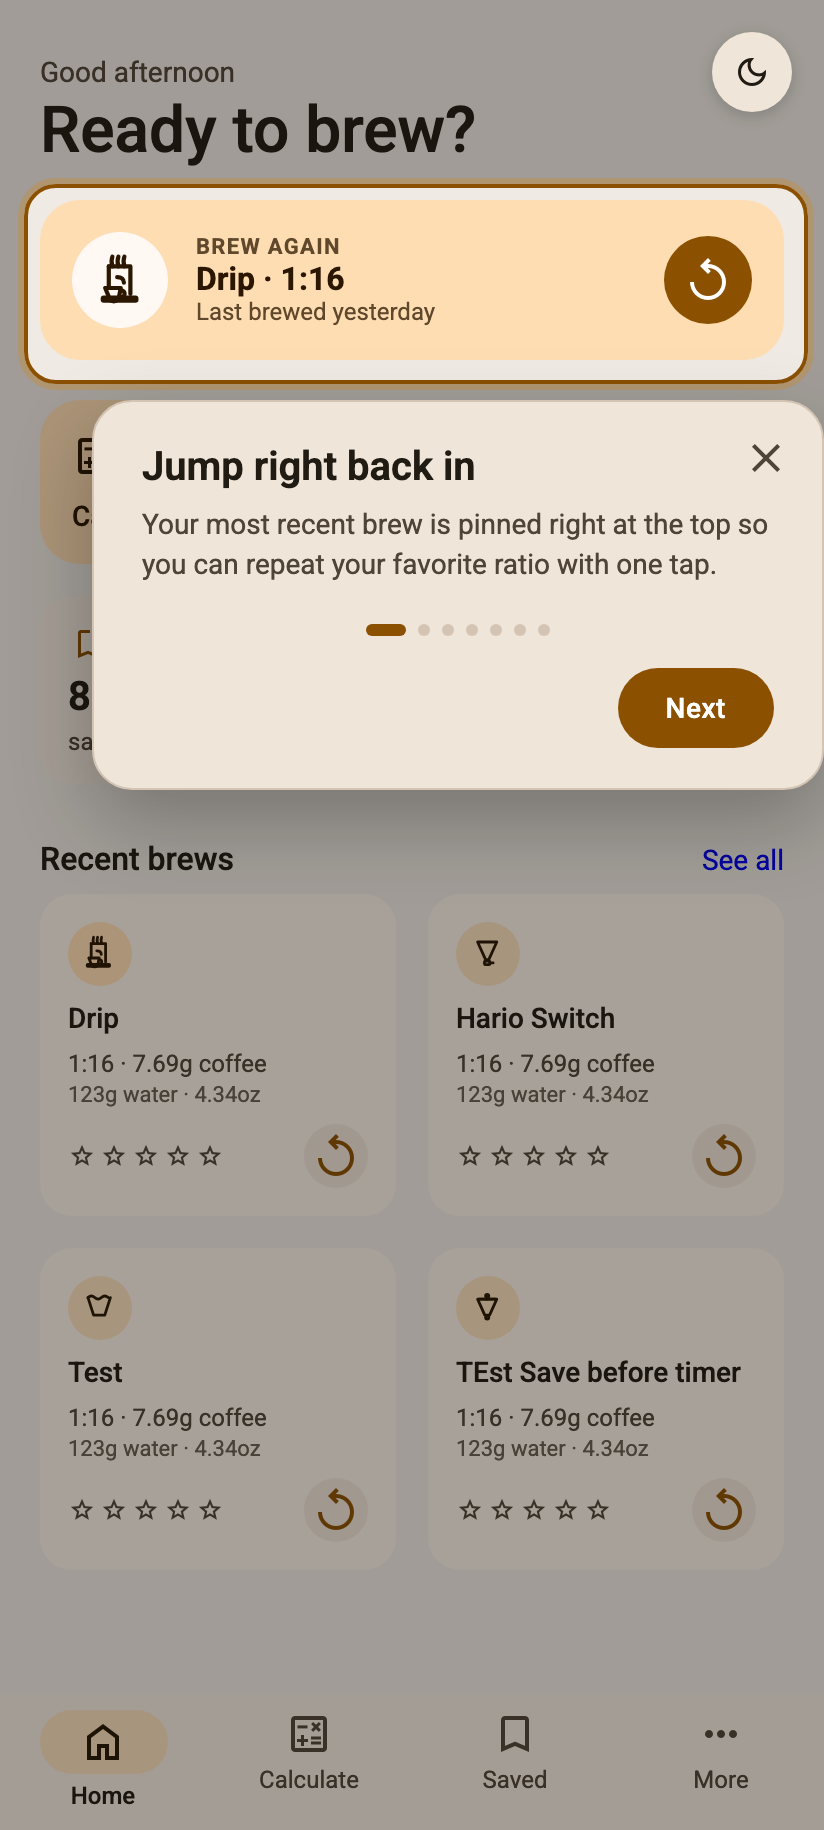
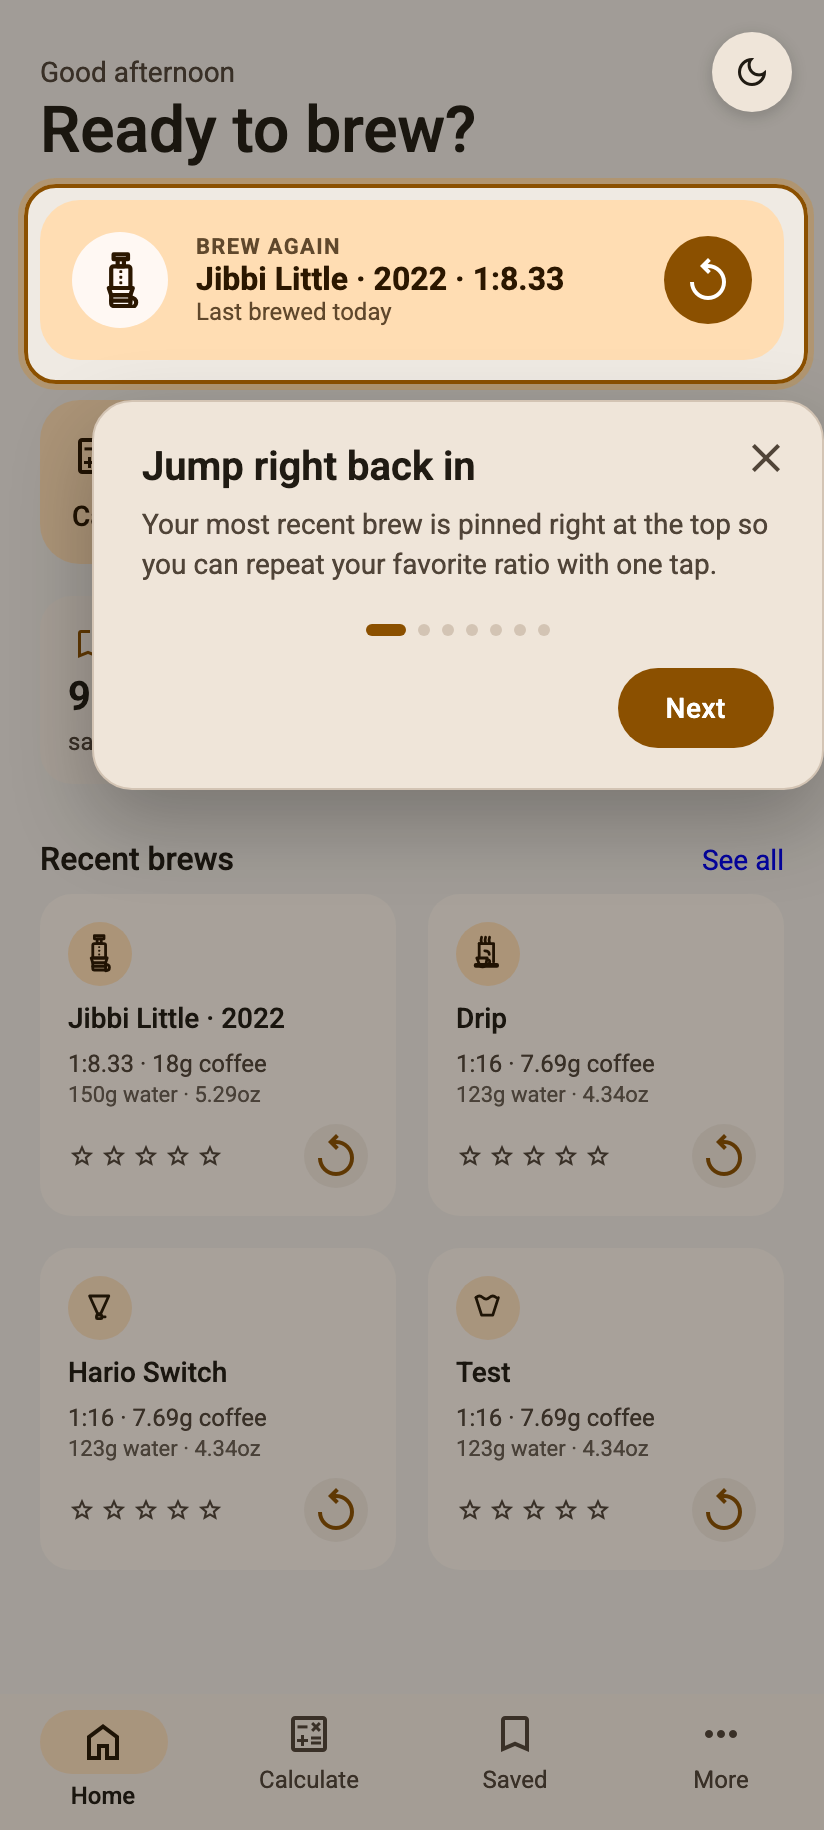
fixed screenshots and added them to the install prompt

diff --git a/scripts/capture-screenshots.js b/scripts/capture-screenshots.js
@@ -82,6 +82,19 @@ async function capture() {
     await page.screenshot({ path: outputPath, fullPage: false });
   }
 
+  console.log("Capturing timer-with-recipe.png (guided timer with AeroPress recipe)...");
+  await page.goto(`${baseUrl}/saved`, { waitUntil: "networkidle" });
+  await page.getByText("Jibbi Little · 2022").click();
+  await page.waitForTimeout(500);
+  await page.getByRole("button", { name: "Brew again" }).click();
+  await page.waitForTimeout(500);
+  await page.getByRole("button", { name: "Start guided timer" }).click();
+  await page.waitForTimeout(500);
+  await page.screenshot({
+    path: path.join(screenshotsDir, "timer-with-recipe.png"),
+    fullPage: false,
+  });
+
   console.log("Screenshots captured successfully!");
   await browser.close();
   await server.close();

diff --git a/vite.config.ts b/vite.config.ts
@@ -173,6 +173,13 @@ export default defineConfig({
             form_factor: "narrow",
             label: "Saved brews (populated)",
           },
+          {
+            src: "screenshots/timer-with-recipe.png",
+            sizes: "824x1830",
+            type: "image/png",
+            form_factor: "narrow",
+            label: "Guided timer with recipe",
+          },
         ],
       },
       devOptions: {
